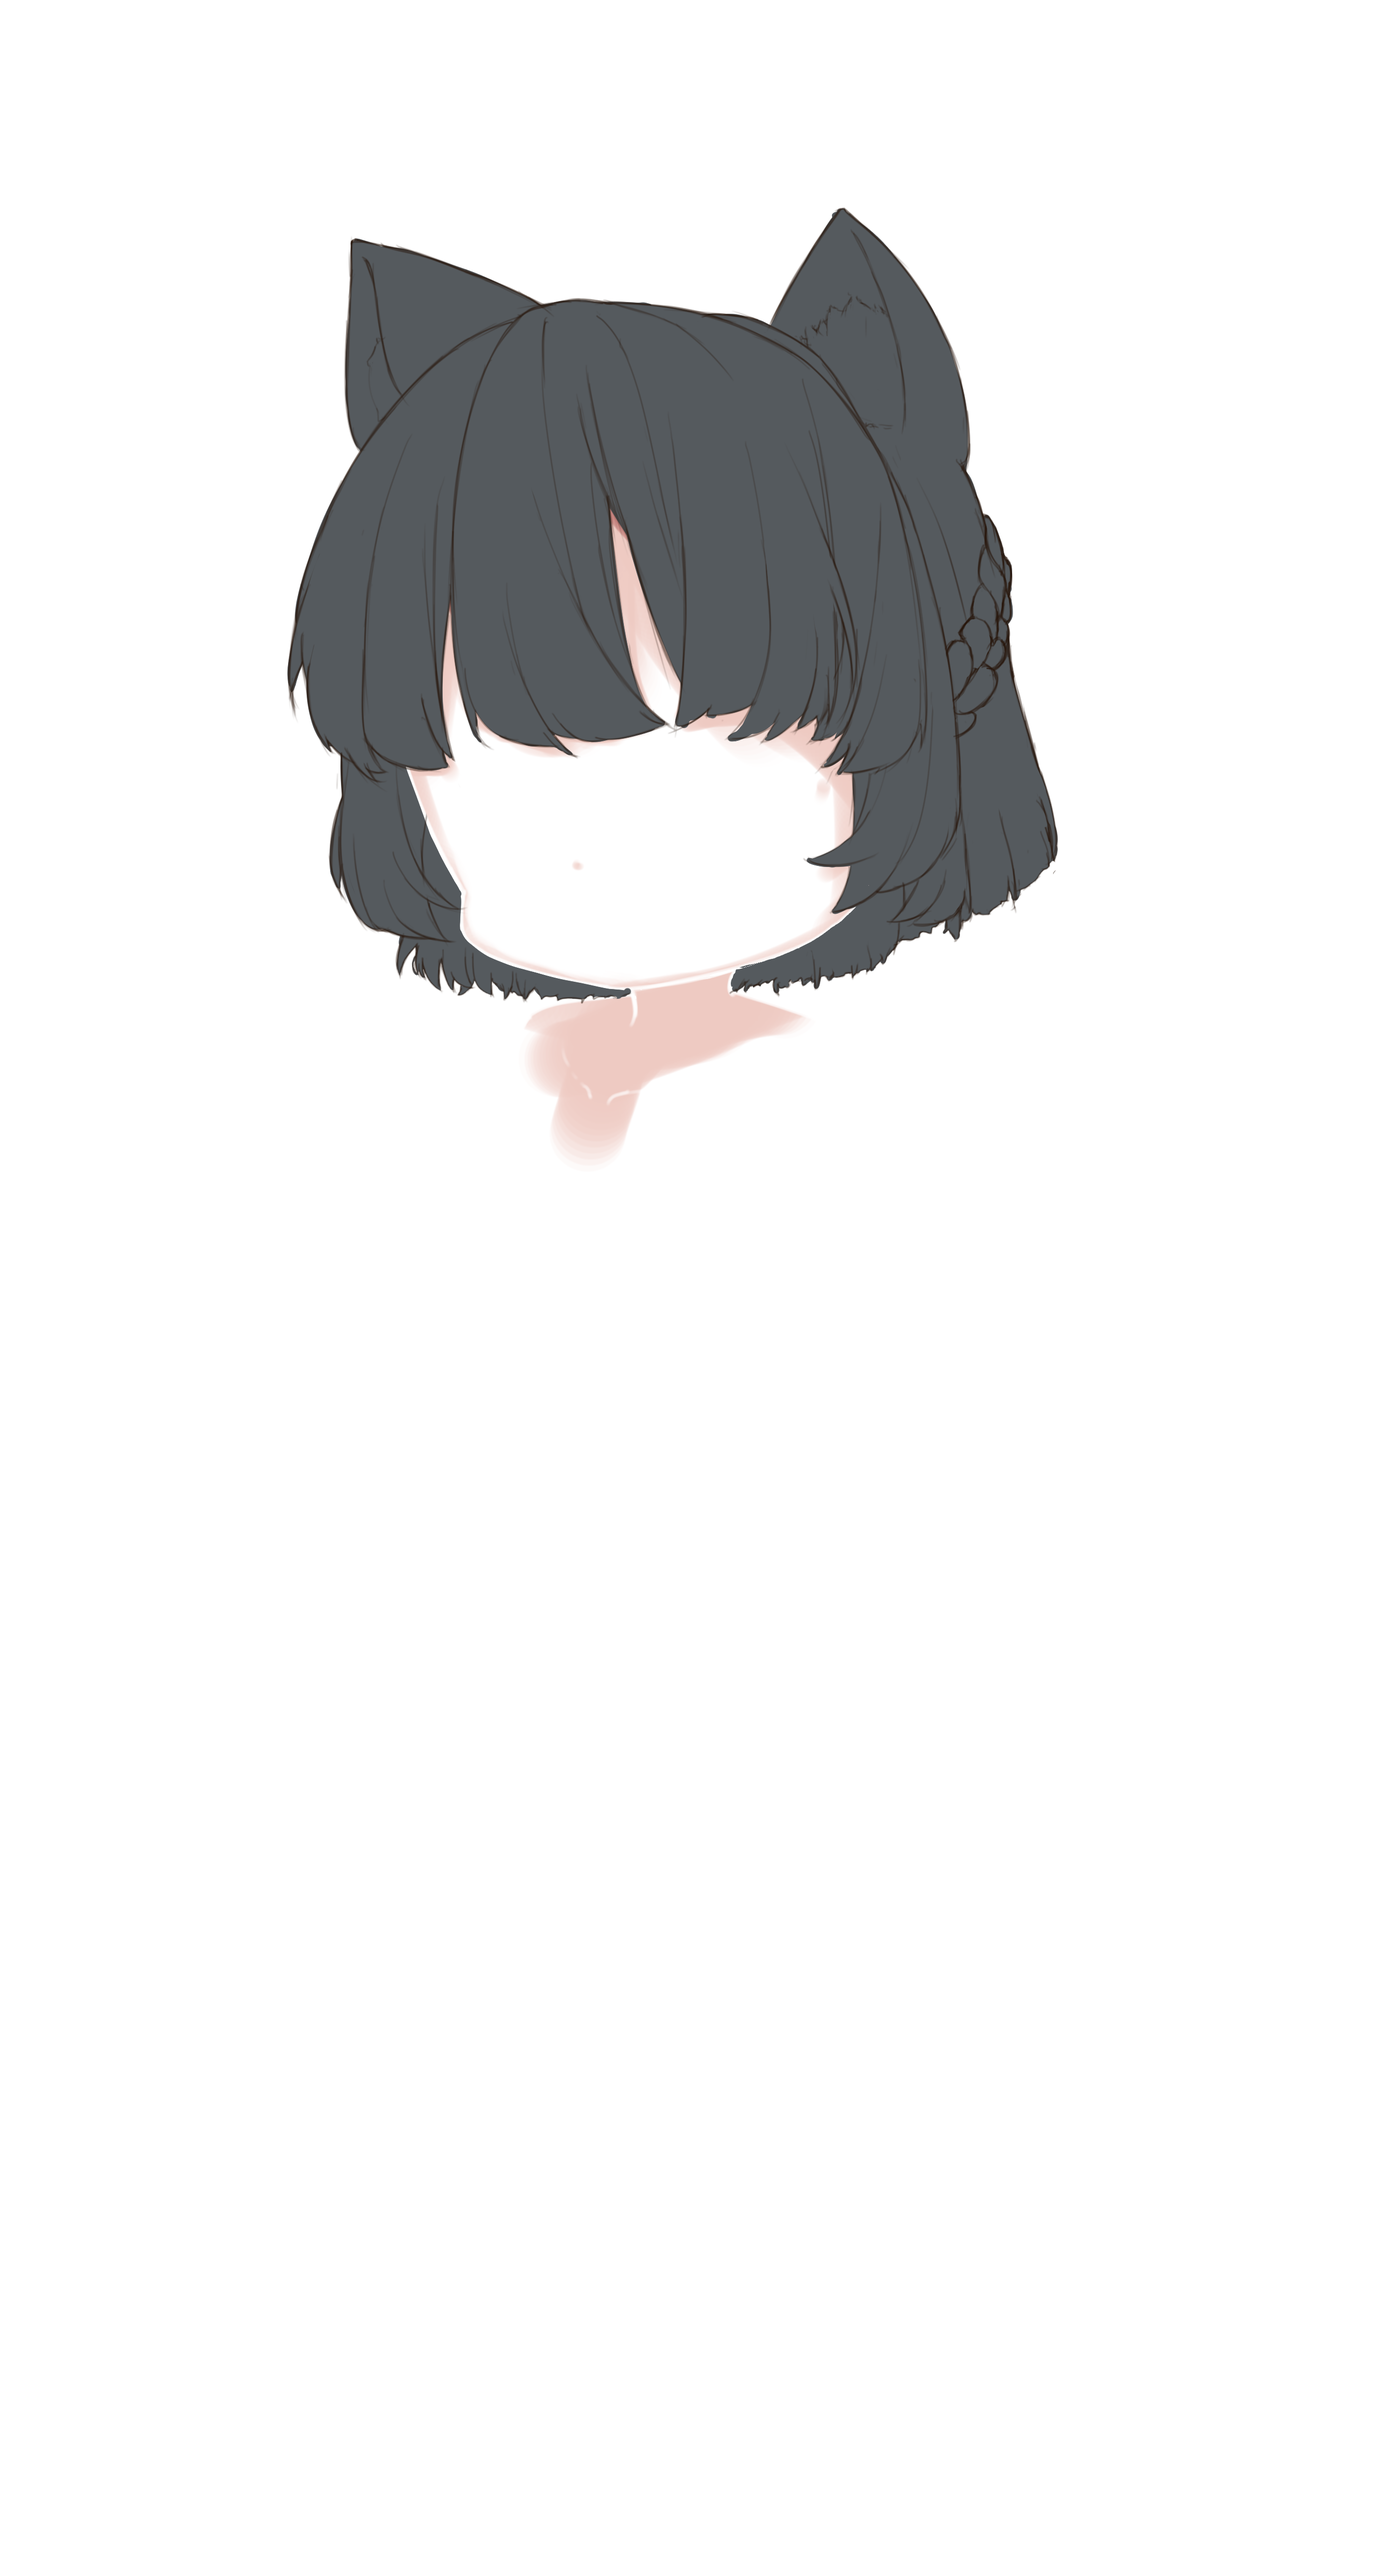
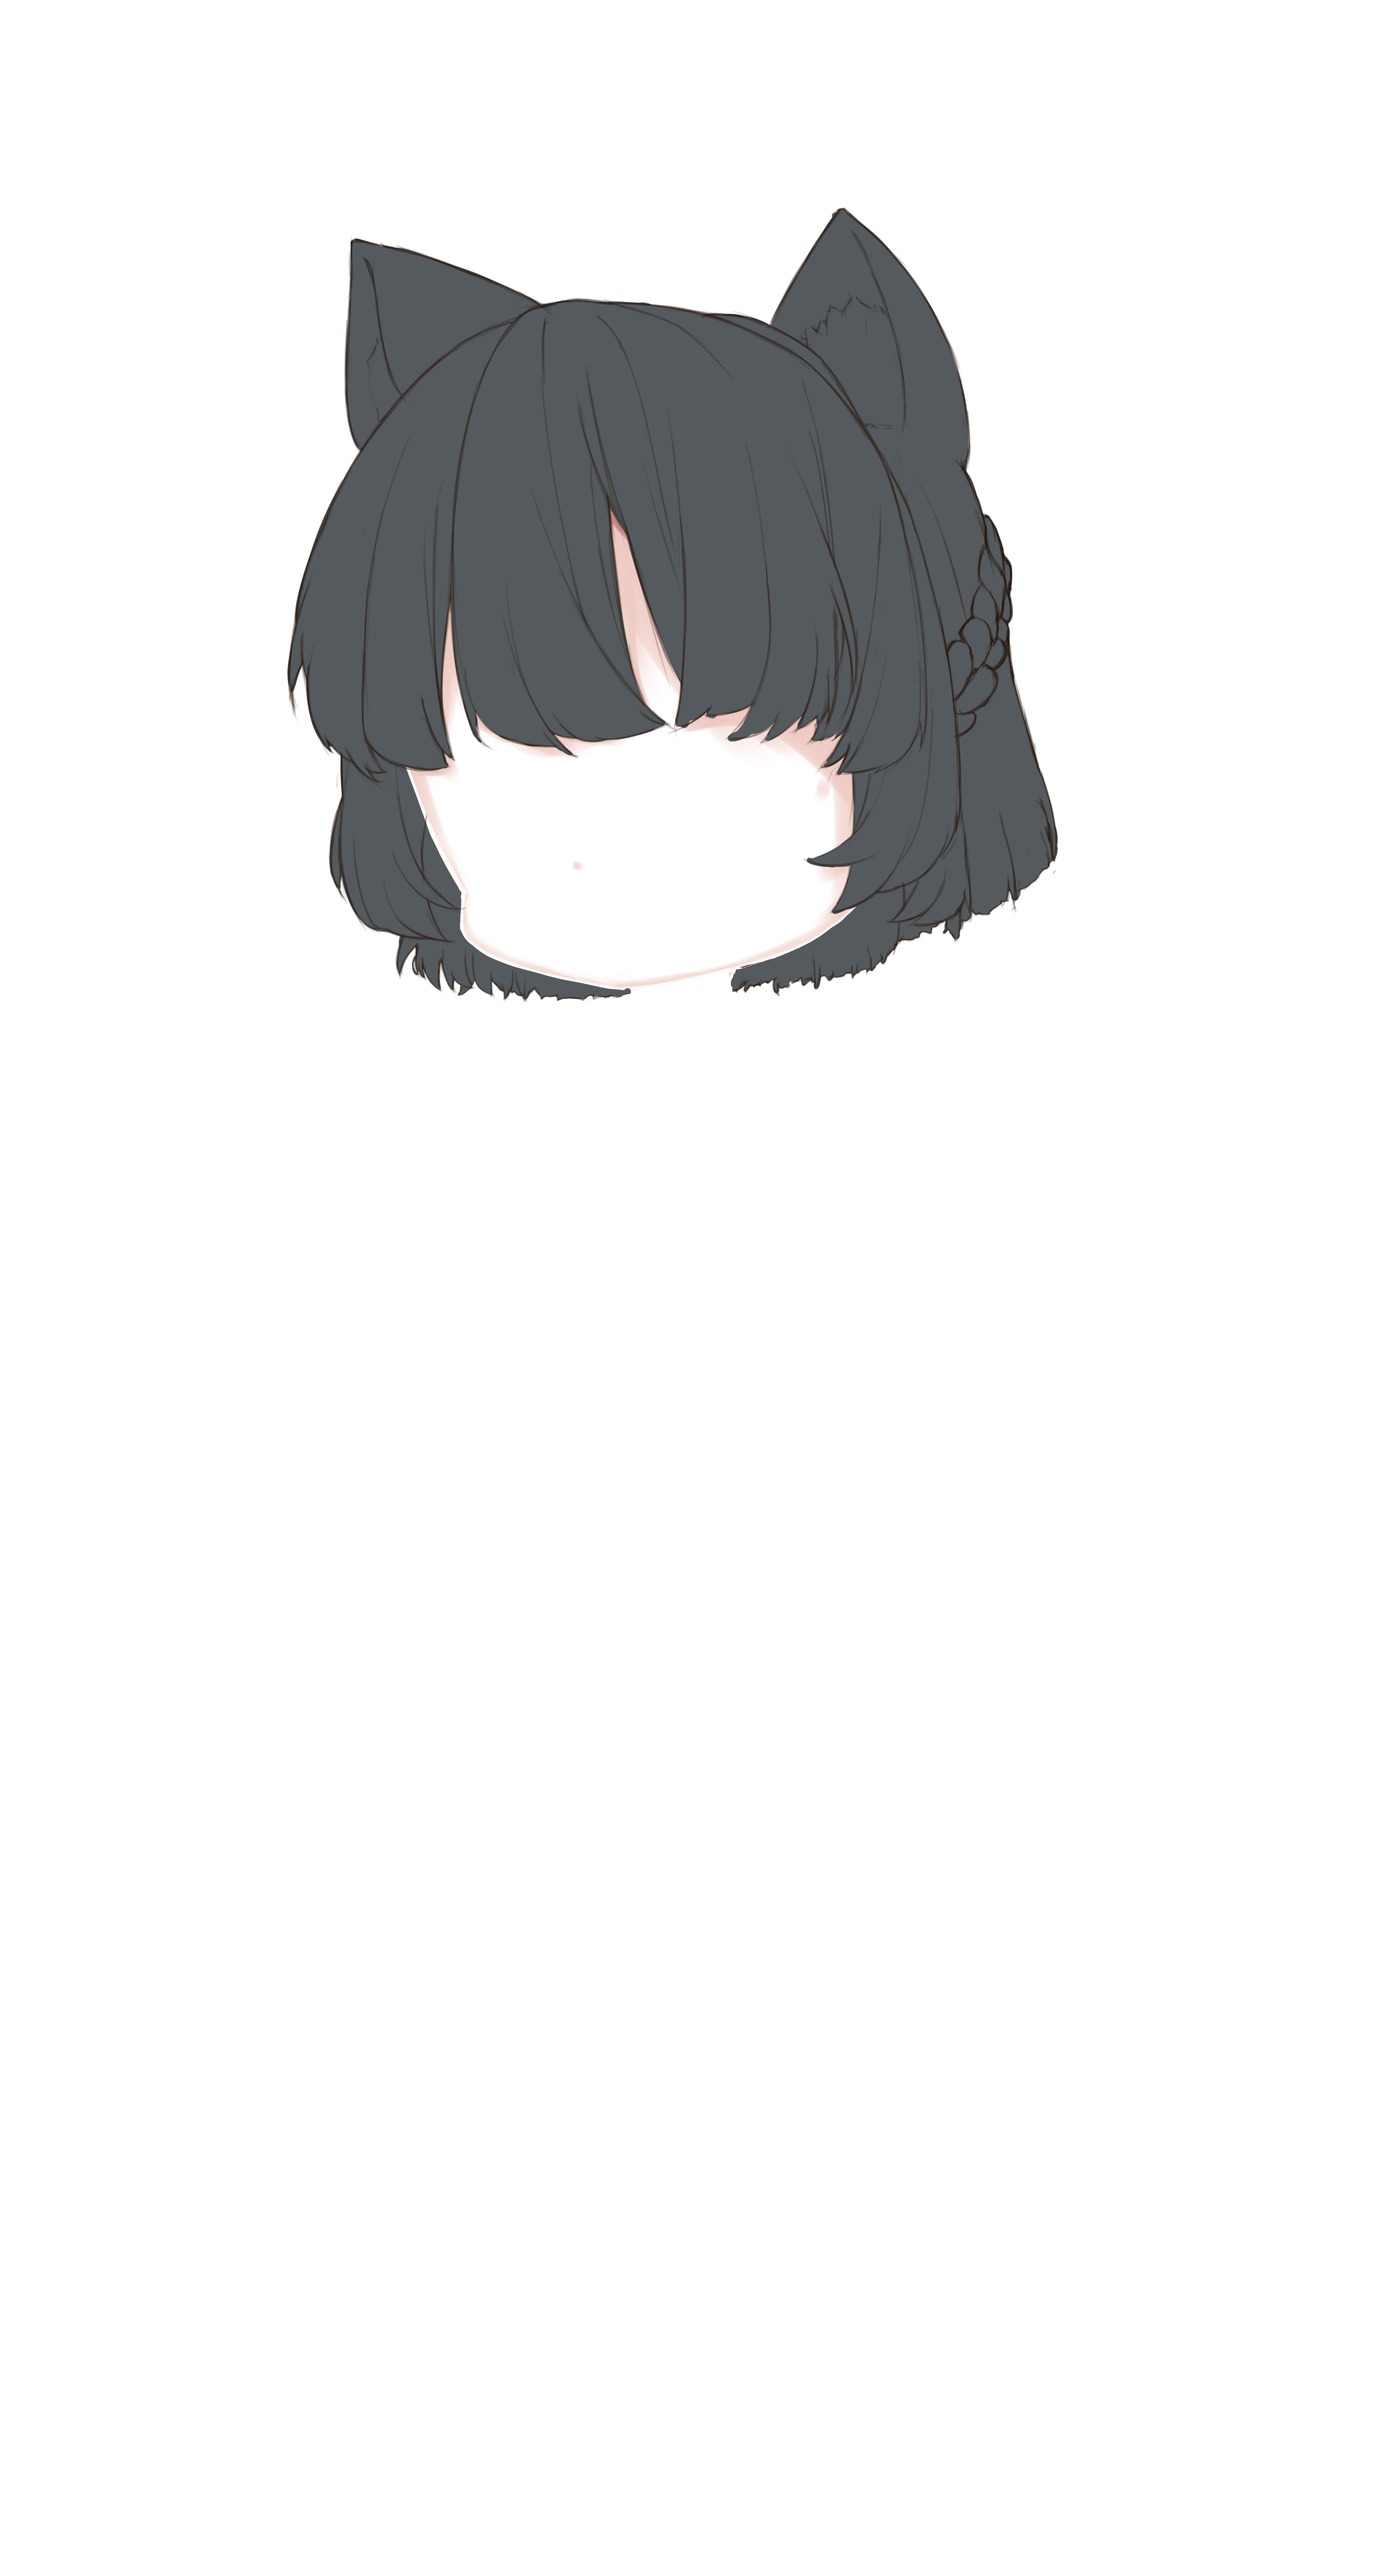
레이어의 순서 및 최적화로인해 약간 난잡한상태의 코드지만 진행사항이 길어짐에 따라 완성되지않은 상태임에도 중간점검겸 코밋

Changed region(s): [[0.3719, 0.3748, 0.5889, 0.4686]]

diff --git a/real_make_avatar.py b/real_make_avatar.py
@@ -5,44 +5,69 @@ from PIL import Image
 from PIL import ImageChops
 import time
 
+'''
+이 함수는 판떼기를 만드는 함수 
+알파값을 이용한 이미지합성을 다룬다.
+'''
+
+
+
 visual_mode = True    # 이미지를 가져올때 전신 = False, 상반신 = True
 
 main_head = rd.get_full_img_verPIL('./img/body/main_head.png', visual_mode)
 main_body = rd.get_full_img_verPIL('./img/body/main_body.png', visual_mode)
 cloth = rd.get_full_img_verPIL('./img/body/cloth.png', visual_mode)
-hair = rd.get_full_img_verPIL('./img/head_parts/hair.png',visual_mode)
+# hair = rd.get_full_img_verPIL('./img/head_parts/hair.png',visual_mode)
+back_hair = rd.get_full_img_verPIL('./img/head_parts/back_hair.png',visual_mode)
+front_hair = rd.get_full_img_verPIL('./img/head_parts/front_hair.png',visual_mode)
 
 class_labels=['Angry','Happy','Neutral','Sad','Surprise']
+
+shift_x,shift_y = 0,10          #눈을 감았을떄 턱이 내려가는 애니메이션을 만들기위한 함수 y값만큼 턱이 내려간다.
 
 
 # image_without_alpha = main_body[:,:,:3]                             # 전체
 # bg = np.full(image_without_alpha.shape,(0,215,0), dtype=np.uint8)   # 크로마키 배경이미지
 
-def make_body(main_body,shoe=None,pants=None,cloth=None,another1=None,another2=None) :
-    bg = rd.make_bg(main_body)
-    image_stack = [main_body]
+# 몸과 머리를 나누어 make_body,make_head의 함수로 나누었지만 실제 개발상 레이어의 순서도가 바뀌고 실행의 최적화를 위해
+# 실제로 몸과 머리를 만들지는 않고 약간 혼합된 형태, 하지만 body가 back frame이고, head가 front frame이라는 개념만 알아주면 될듯하다.
+def make_body(main_body,back_hair=None,shoe=None,pants=None,cloth=None,another1=None,another2=None,main_head=None) :
 
-    if shoe :
-        image_stack.append(shoe)
-    if pants :
-        image_stack.append(pants)
-    if cloth :
-        image_stack.append(cloth)
-    if another1 :
-        image_stack.append(another1)
-    if another2 :
-        image_stack.append(another2)
+    body = []
+    for i in range(2) :
 
-    for image in image_stack :
-        bg = Image.alpha_composite(bg, image)
+        bg = rd.make_bg(main_body)
+        image_stack = [main_body]
+        if back_hair :
+            if i == 1:
+                back_hair = shift_img(back_hair, shift_x,shift_y)
+            image_stack.append(back_hair)
+        if shoe :
+            image_stack.append(shoe)
+        if pants :
+            image_stack.append(pants)
+        if cloth :
+            image_stack.append(cloth)
+        if another1 :
+            image_stack.append(another1)
+        if another2 :
+            image_stack.append(another2)
+        if main_head :
+            if i == 1:
+                main_head = shift_img(main_head, shift_x,shift_y)
+            image_stack.append(main_head)
+        for image in image_stack :
+            bg = Image.alpha_composite(bg, image)
 
-    return bg
+        body.append(bg)
+
+    return body
 
 
-def make_head(main_head,hair = None,another1 = None,another2=None) :
+def make_head(main_head,front_hair = None,another1 = None,another2=None) :
     image_stack=[]
-    if hair :
-        image_stack.append(hair)
+    if front_hair :
+        image_stack.append(front_hair)
     if another1 :
         image_stack.append(another1)
     if another2 :
@@ -92,7 +117,9 @@ def make_face(eyes123=[],mouth123=[]) :
     for i in range(5) :
         print(emotion[i])
 
-
+def shift_img(img,shift_x=0,shift_y=0) :
+    shifted_img = ImageChops.offset(img,shift_x,shift_y)
+    return shifted_img
 
 def check_exception(index):
     # Checks if any of the layers have a known exception with another layer
@@ -111,21 +138,20 @@ def main():
     # start_time = time.perf_counter()
 
 
-    # main_body = Image.alpha_composite(main_body, main_head)
-    # main_body = Image.alpha_composite(bg, main_body)
-    body = make_body(main_body, cloth=cloth)
-    head = make_head(main_head, hair=hair)
-    # main_body.paste(main_head,(0,0))
-    # body.show()
-    # head.show()
+    body = make_body(main_body,back_hair=back_hair, cloth=cloth, main_head=main_head)
+    for i in range(len(body)) :
+        body[i].show()
+    '''
+    head = make_head(main_head, front_hair=front_hair)
+
     frame1 = Image.alpha_composite(body,head)
 
-    shift_head = ImageChops.offset(head,0,30)
+    shift_head = shift_img(head,shift_x,shift_y)
     frame2 = Image.alpha_composite(body,shift_head)
 
-    frame1.show()
+    # frame1.show()
     frame2.show()
-
+    '''
 
     # elapsed = (time.perf_counter() - start_time) * 1000
     # print ( "수행시간 = %0.2f ms" % elapsed)

diff --git a/README.md b/README.md
@@ -39,6 +39,7 @@
 clear시켜도 append된 값도 clear되버린다. .clear를 쓰지말고, =[]으로 직접 정의해주자
 
 
+
 사용 
 openCV, mediapipe, keras
 
